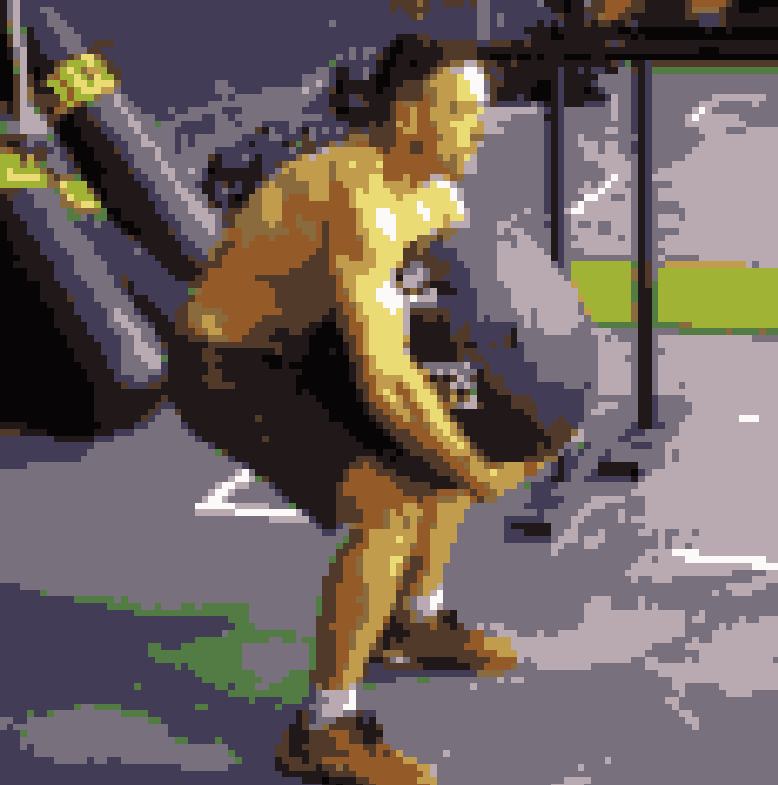
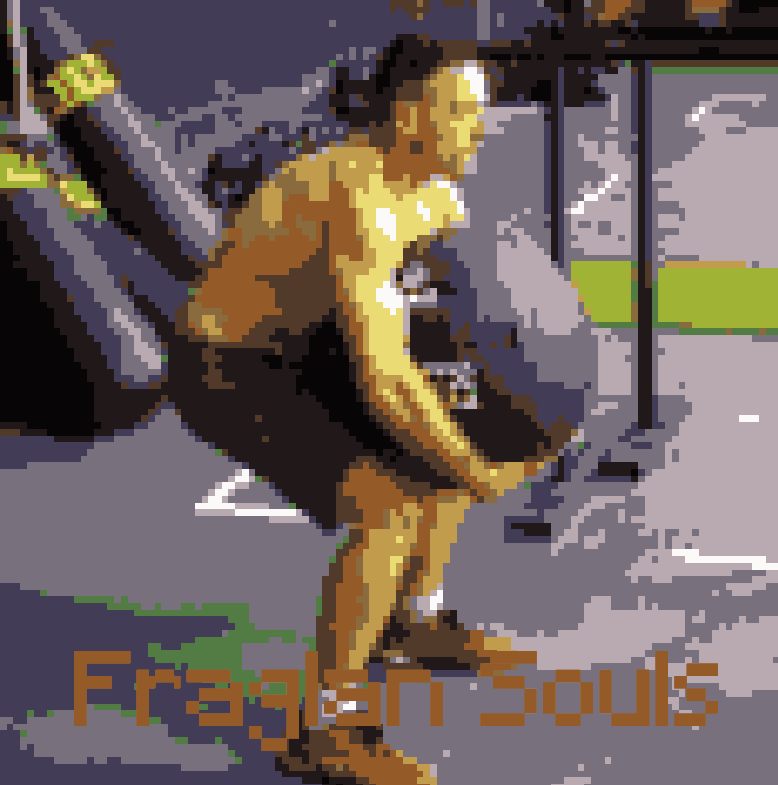
añadido un carrusel simulando la eleccion del juego

Changed region(s): [[0.0925, 0.8255, 0.5861, 0.9783], [0.617, 0.8255, 0.9254, 0.9478]]

diff --git a/index.html b/index.html
@@ -13,6 +13,7 @@
 </head>
 
 <body>
+    
    
     <div id="carcasa" class = "col-lg-12">
         <div class="ON">ON</div>
@@ -23,7 +24,27 @@
             <div id="led_on" class="led led_on">
                 <p>POWER</p>
             </div>
-            <div class="pantalla"><img class="villepixel" src="./Resources/Trilogy.png" />
+            <div class="pantalla"><div id="carouselExampleControls" class="printScreen carousel slide" data-bs-ride="carousel">
+                <div class="carousel-inner">
+                  <div class="carousel-item active">
+                    <img class="d-block w-100" src="./Resources/VillesAdventures.png" alt="First slide">
+                  </div>
+                  <div class="carousel-item">
+                    <img class="fraglan d-block w-100" src="./Resources/FraglanSouls.png" alt="Second slide">
+                  </div>
+                  <div class="carousel-item">
+                    <img class="d-block w-100" src="./Resources/RatsRevenge.png" alt="Third slide">
+                  </div>
+                </div>
+                <a class="carousel-control-prev" href="#carouselExampleControls" role="button" data-bs-slide="prev">
+                  <span class="carousel-control-prev-icon" aria-hidden="true"></span>
+                  <span class="sr-only"></span>
+                </a>
+                <a class="carousel-control-next" href="#carouselExampleControls" role="button" data-bs-slide="next">
+                  <span class="carousel-control-next-icon" aria-hidden="true"></span>
+                  <span class="sr-only"></span>
+                </a>
+              </div>
                 <span class=" color">GAMEBOY</span>
                 <span class="c">C</span>
                 <span class="o">O</span>

diff --git a/css/styleGameBoy.css b/css/styleGameBoy.css
@@ -107,7 +107,9 @@ body {
     opacity: 70%;
 }
 
-
+.fraglan{
+    height: 300px;
+}
 .pantalla {
     font-family: 'Trebuchet MS', 'Lucida Sans Unicode', 'Lucida Grande', 'Lucida Sans', Arial, sans-serif;
     height: 320px;
@@ -120,7 +122,14 @@ body {
     align-items: center;
 }
 
-.villepixel {
+.carousel-control-next-icon{
+    background-image: url(/Resources/flecha\ derecha.png);
+}
+.carousel-control-prev-icon{
+    background-image: url(/Resources/flecha\ izquierda.png);
+}
+
+.printScreen {
     height: 300px;
     width: 310px;
 
